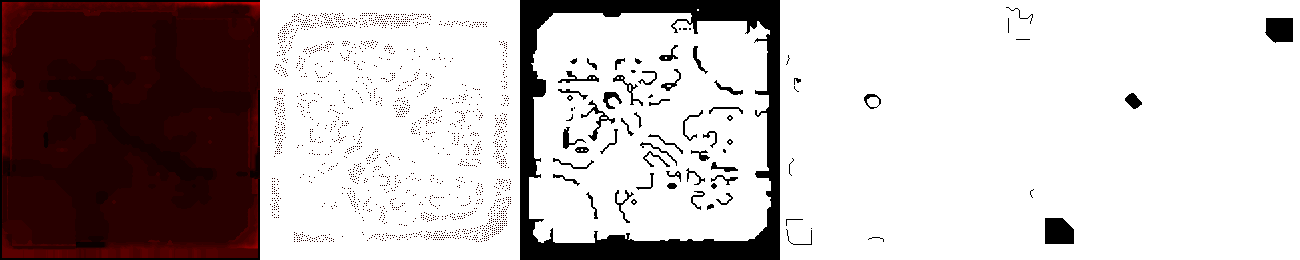
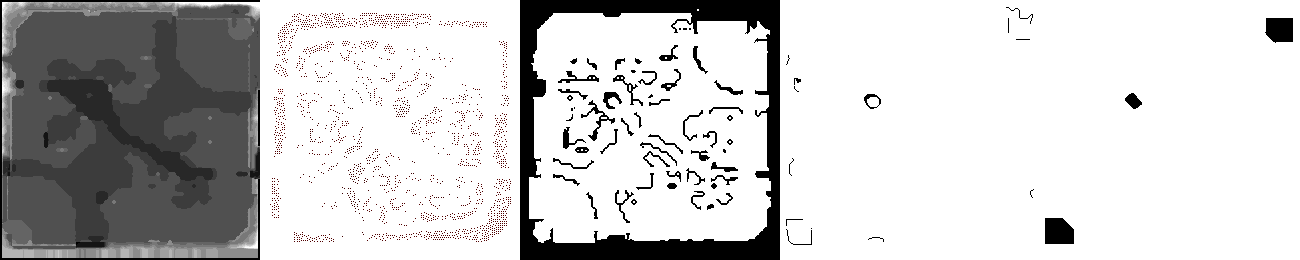
change color scheme

Changed region(s): [[0.0, 0.0, 0.3385, 1.0], [0.3077, 0.8923, 0.3692, 0.9231], [0.3692, 0.8615, 0.4, 0.8923]]

diff --git a/www/bundle.js b/www/bundle.js
@@ -51,8 +51,8 @@ function App(mapImageDataPath) {
         COLOR_STUMP = [102, 51, 0],
         COLOR_LIT_STUMP = [200, 200, 0],
         COLOR_INVALID = [255, 0, 0],
-        COLOR_GRIDNAV = [0, 0, 255],
-        COLOR_FOW_BLOCKER = [0,255,255],
+        COLOR_GRIDNAV = [0, 0, 0],
+        COLOR_FOW_BLOCKER = [0,200,200],
         COLOR_WALL = [255,255,255],
         debug = false;
         
@@ -863,7 +863,7 @@ function VisionSimulation(worlddata, mapDataImagePath, onReady, opts) {
             // trees are 2x2 in grid
             // tree origins rounded up when converted to grid, so they represent top right corner. subtract 0.5 to get grid origin
             var treeOrigin = {x: pt.x - 0.5, y: pt.y - 0.5};
-            var treeElevation = p[0] + 20;
+            var treeElevation = p[0] + 40;
             var kC = pt2key(treeOrigin);
             self.tree[kC] = treeOrigin;
             self.tree_elevations[kC] = treeElevation;

diff --git a/src/vision-simulation.js b/src/vision-simulation.js
@@ -145,7 +145,7 @@ function VisionSimulation(worlddata, mapDataImagePath, onReady, opts) {
             // trees are 2x2 in grid
             // tree origins rounded up when converted to grid, so they represent top right corner. subtract 0.5 to get grid origin
             var treeOrigin = {x: pt.x - 0.5, y: pt.y - 0.5};
-            var treeElevation = p[0] + 20;
+            var treeElevation = p[0] + 40;
             var kC = pt2key(treeOrigin);
             self.tree[kC] = treeOrigin;
             self.tree_elevations[kC] = treeElevation;

diff --git a/src/app.js b/src/app.js
@@ -16,8 +16,8 @@ function App(mapImageDataPath) {
         COLOR_STUMP = [102, 51, 0],
         COLOR_LIT_STUMP = [200, 200, 0],
         COLOR_INVALID = [255, 0, 0],
-        COLOR_GRIDNAV = [0, 0, 255],
-        COLOR_FOW_BLOCKER = [0,255,255],
+        COLOR_GRIDNAV = [0, 0, 0],
+        COLOR_FOW_BLOCKER = [0,200,200],
         COLOR_WALL = [255,255,255],
         debug = false;
         
